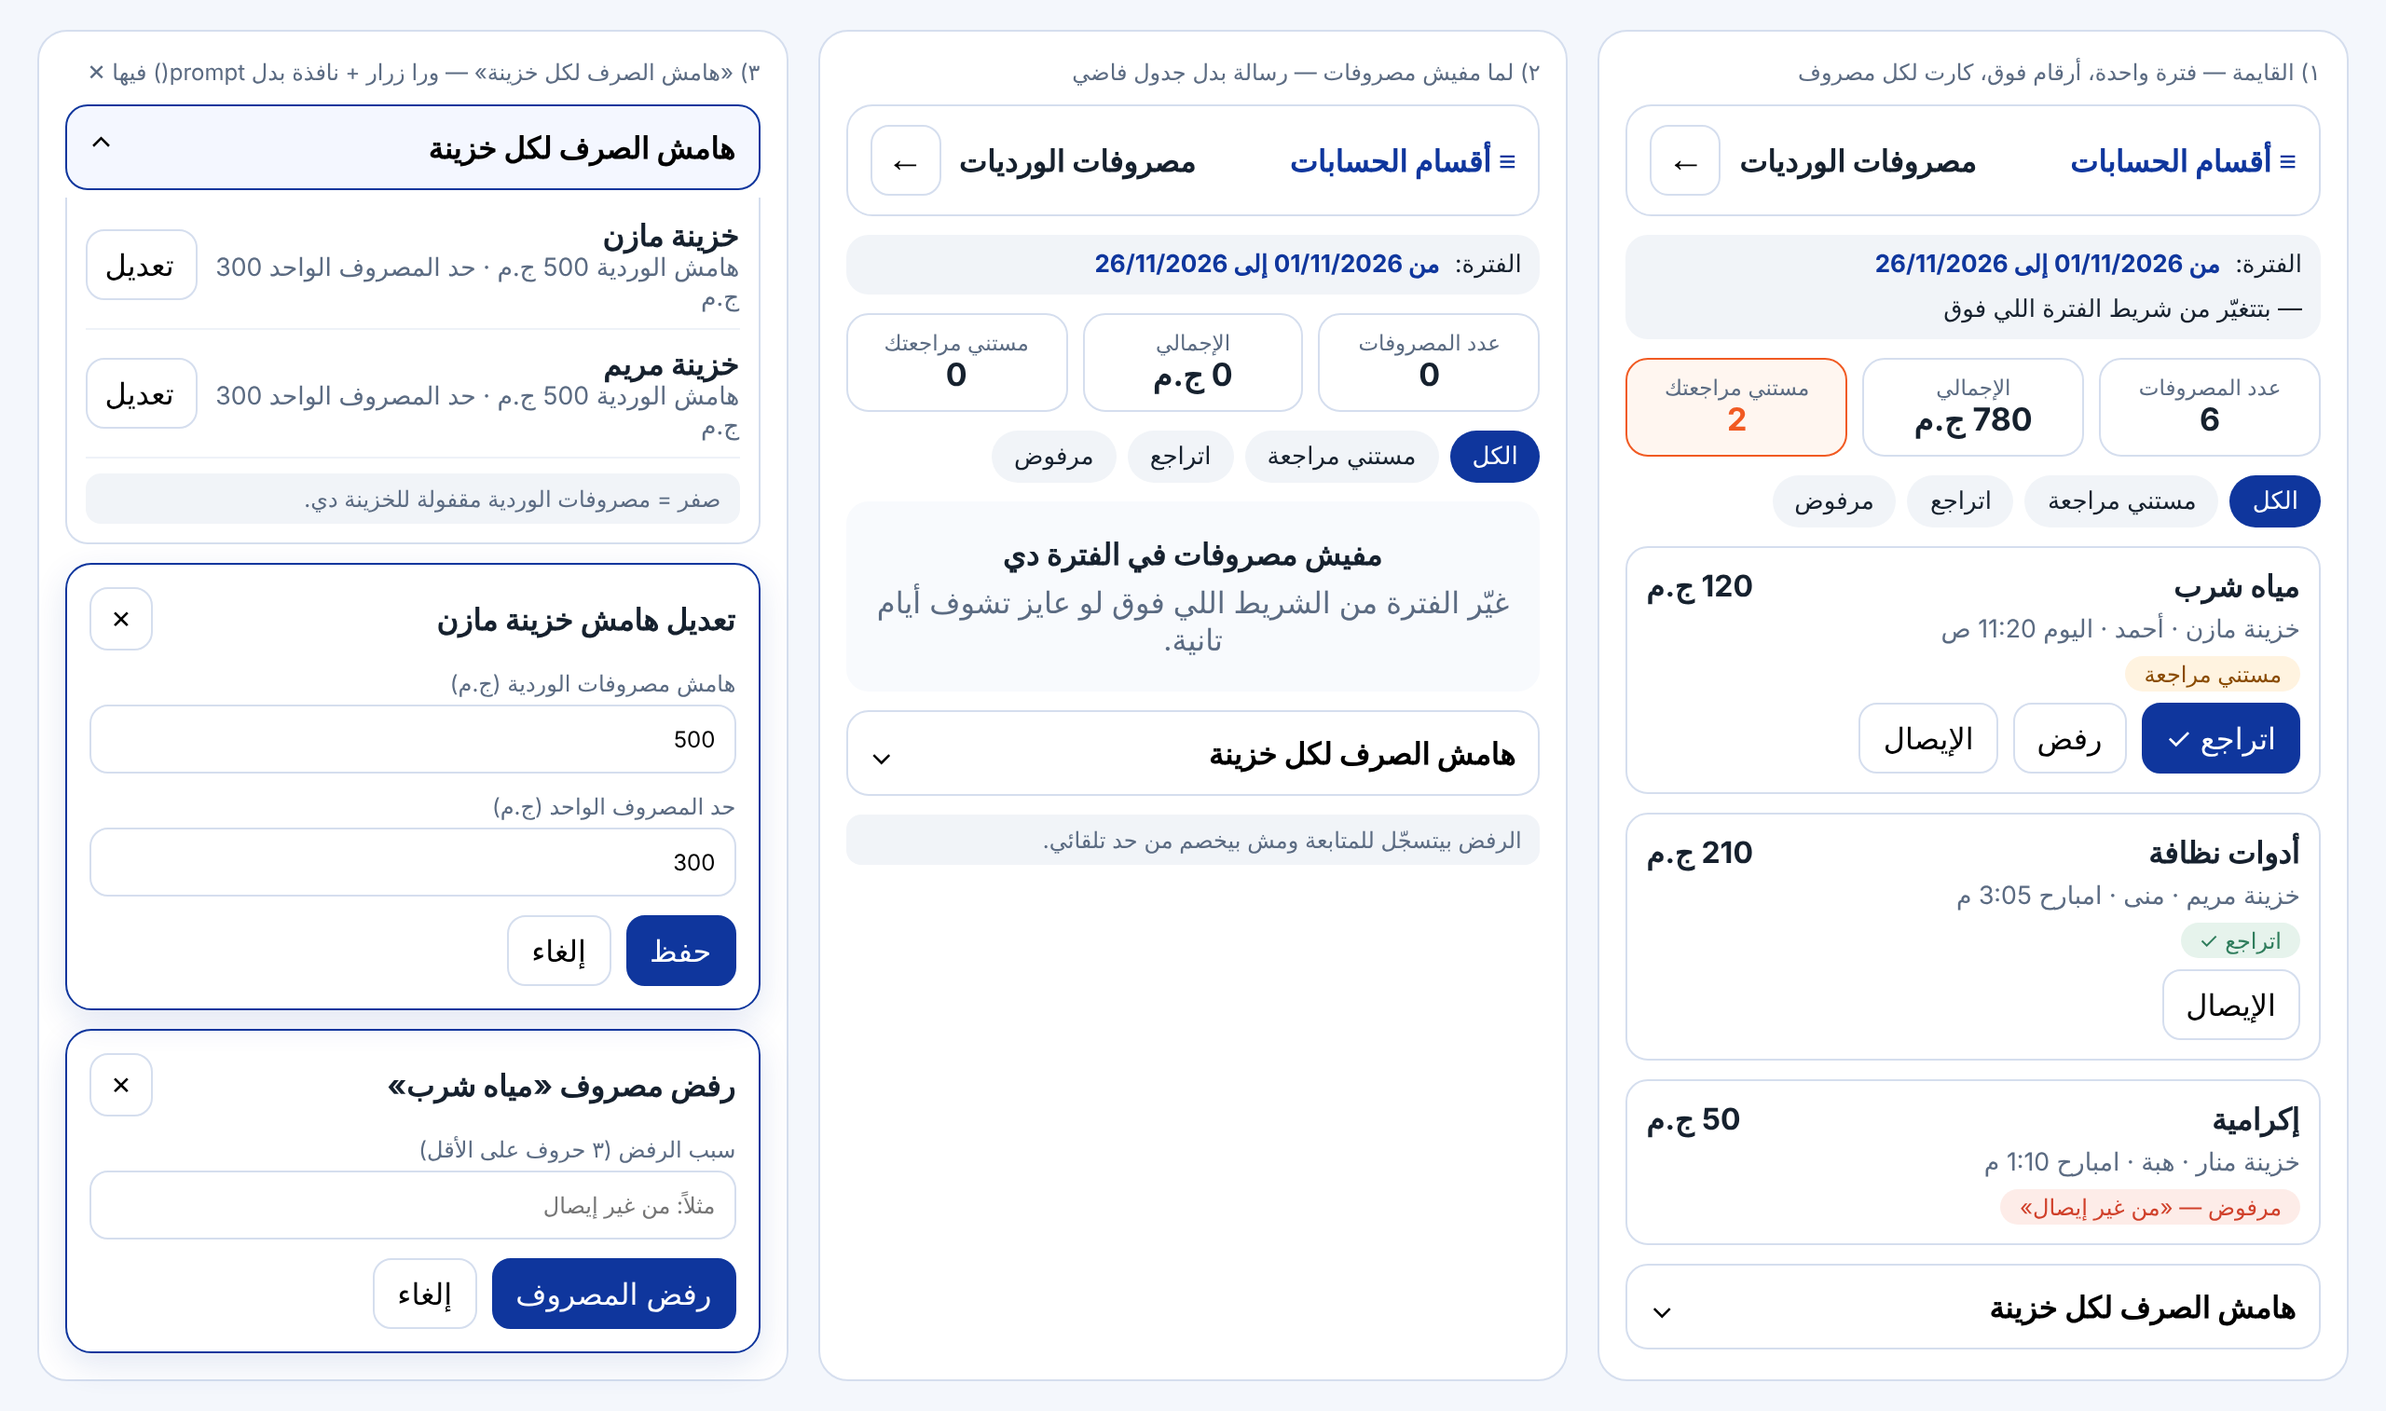
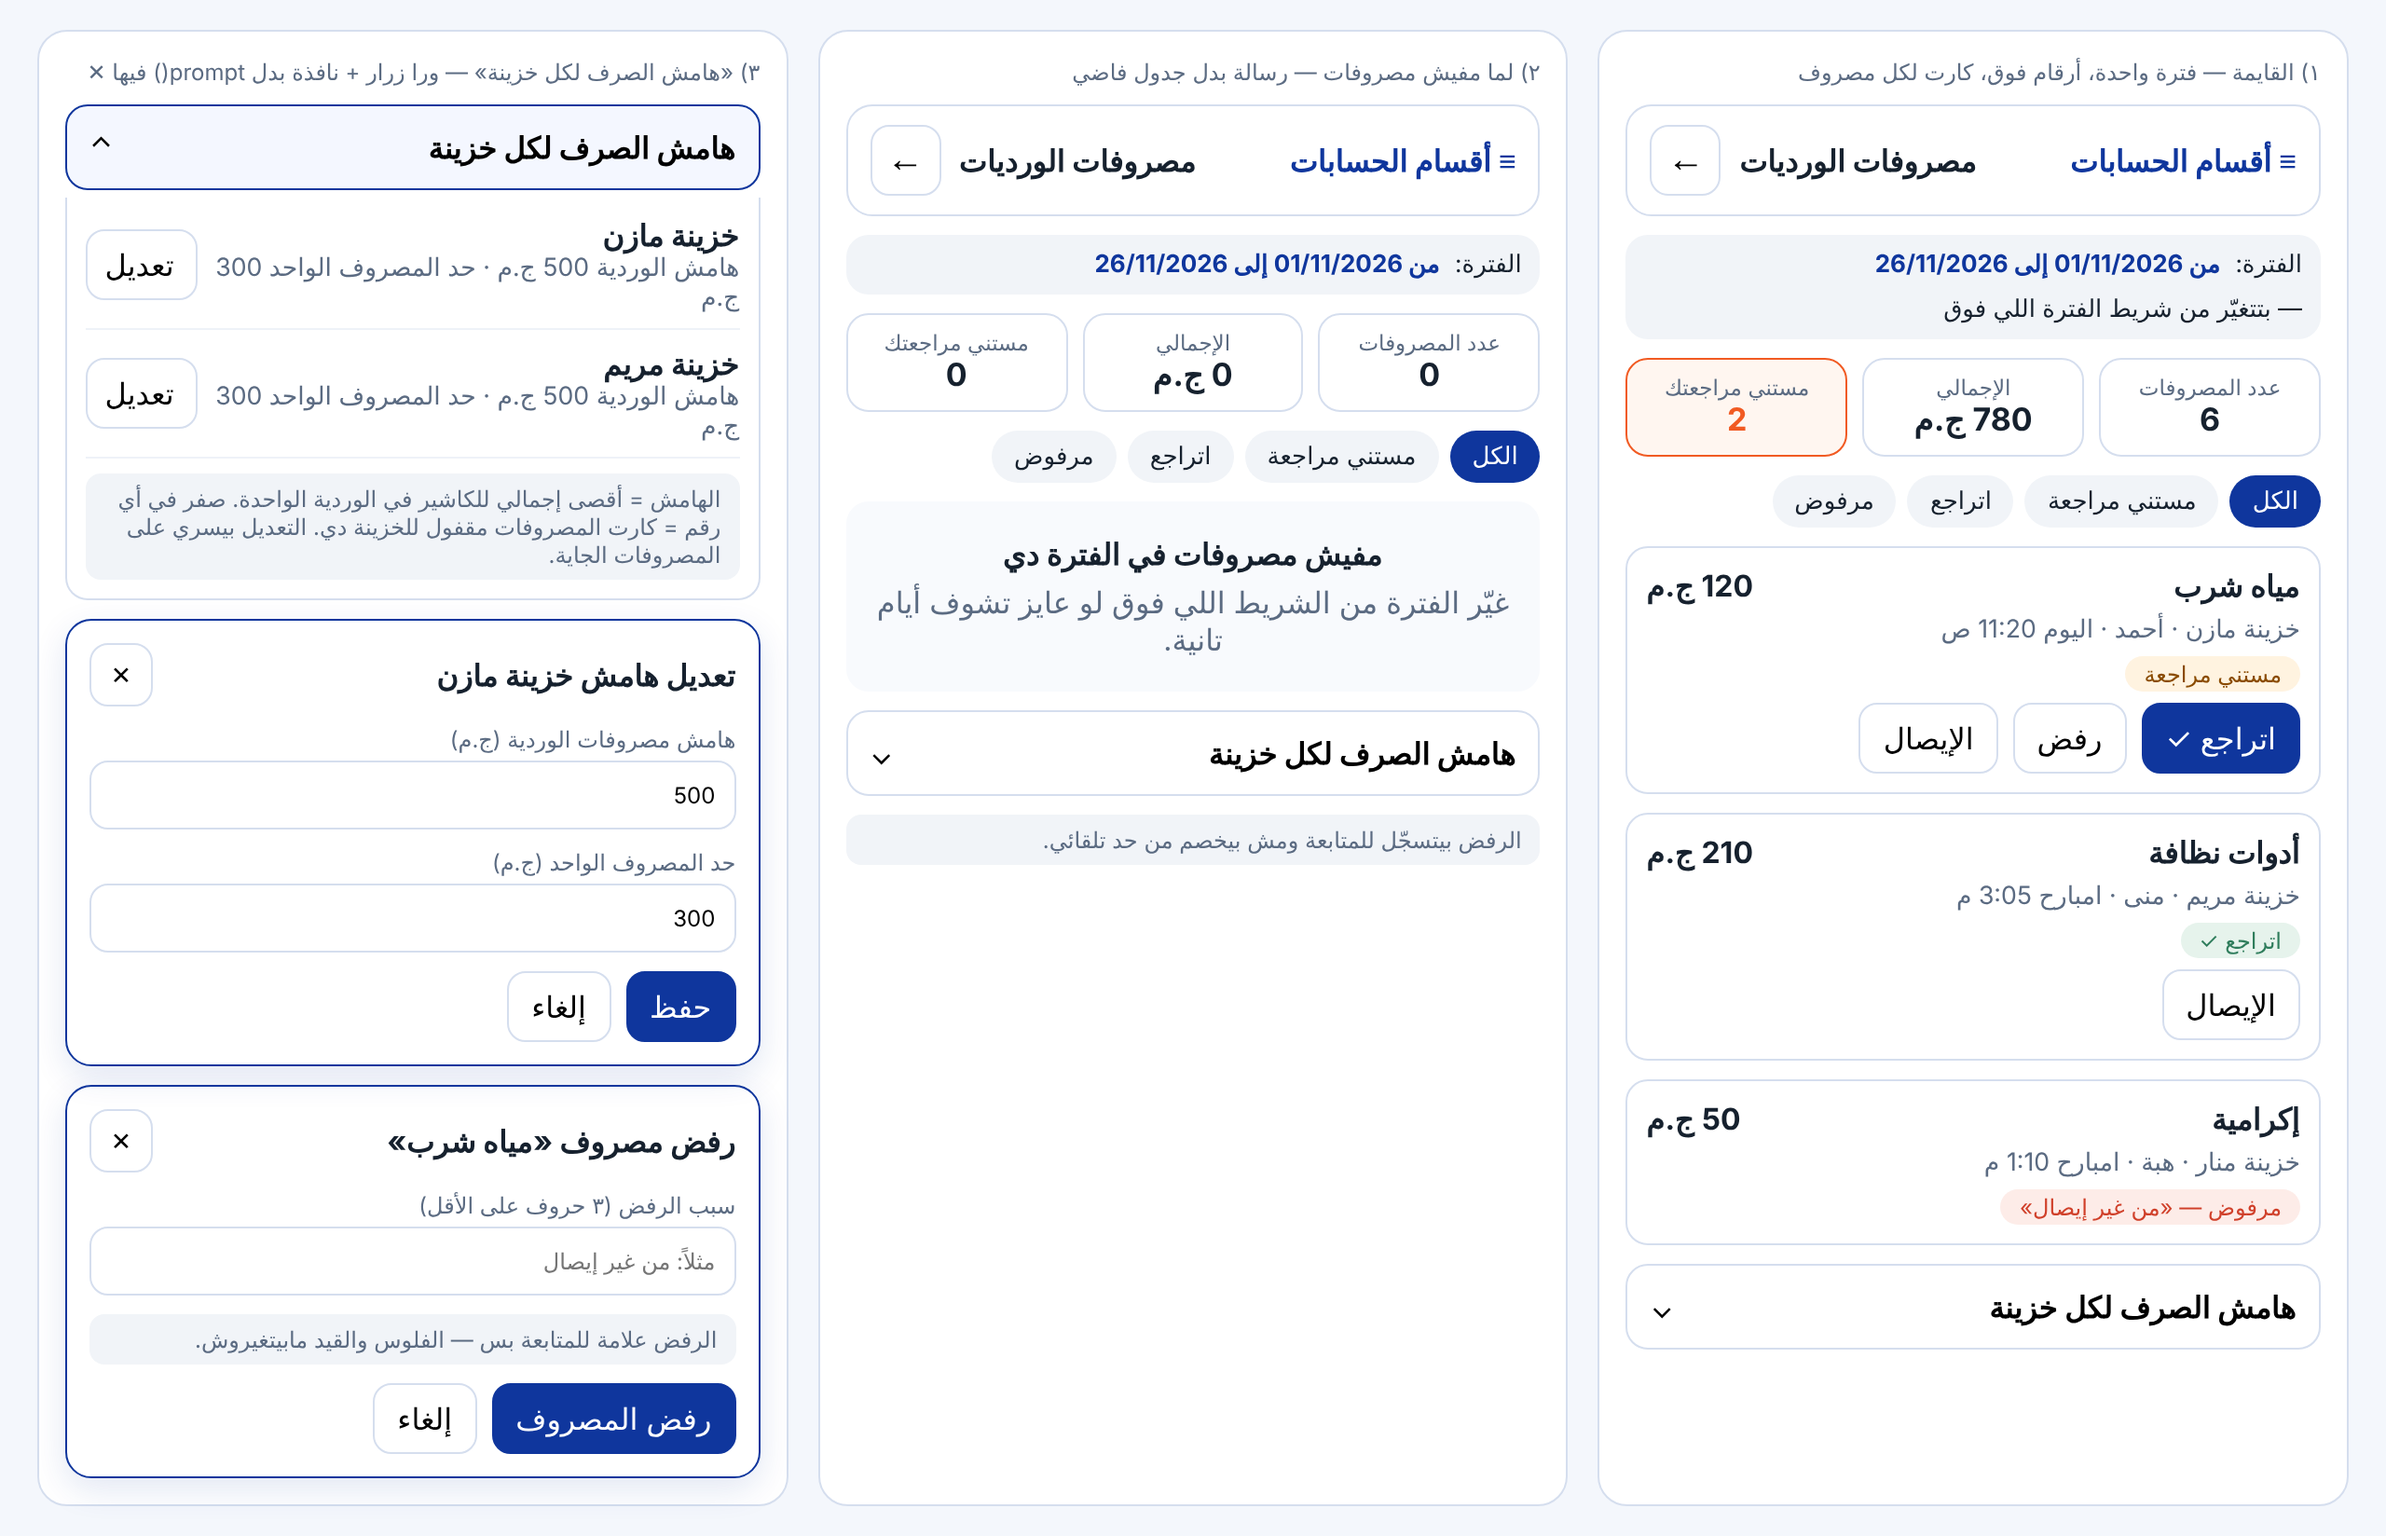
Mockup: shift expenses wording per finance (review is a flag, limits semantics)

diff --git a/docs/ui-references/mockups/shift-expenses-redesign.html b/docs/ui-references/mockups/shift-expenses-redesign.html
@@ -40,10 +40,10 @@ label{display:grid;gap:4px;font-size:12px;color:#5b6b82}input{font:inherit;paddi
 <button class="ah open" type="button"><b>هامش الصرف لكل خزينة</b><span>⌃</span></button>
 <div class="set"><div class="srow"><span><b>خزينة مازن</b><small>هامش الوردية 500 ج.م · حد المصروف الواحد 300 ج.م</small></span><button class="btn">تعديل</button></div>
 <div class="srow"><span><b>خزينة مريم</b><small>هامش الوردية 500 ج.م · حد المصروف الواحد 300 ج.م</small></span><button class="btn">تعديل</button></div>
-<div class="note">صفر = مصروفات الوردية مقفولة للخزينة دي.</div></div>
+<div class="note">الهامش = أقصى إجمالي للكاشير في الوردية الواحدة. صفر في أي رقم = كارت المصروفات مقفول للخزينة دي. التعديل بيسري على المصروفات الجاية.</div></div>
 <div class="sheet"><div class="sh"><b>تعديل هامش خزينة مازن</b><button class="x" aria-label="إغلاق">✕</button></div>
 <label>هامش مصروفات الوردية (ج.م)<input value="500" inputmode="numeric"></label><label>حد المصروف الواحد (ج.م)<input value="300" inputmode="numeric"></label>
 <div class="row"><button class="btn pri">حفظ</button><button class="btn">إلغاء</button></div></div>
 <div class="sheet"><div class="sh"><b>رفض مصروف «مياه شرب»</b><button class="x" aria-label="إغلاق">✕</button></div>
-<label>سبب الرفض (٣ حروف على الأقل)<input placeholder="مثلاً: من غير إيصال"></label><div class="row"><button class="btn pri">رفض المصروف</button><button class="btn">إلغاء</button></div></div></section>
+<label>سبب الرفض (٣ حروف على الأقل)<input placeholder="مثلاً: من غير إيصال"></label><p class="note">الرفض علامة للمتابعة بس — الفلوس والقيد مابيتغيروش.</p><div class="row"><button class="btn pri">رفض المصروف</button><button class="btn">إلغاء</button></div></div></section>
 </div>
